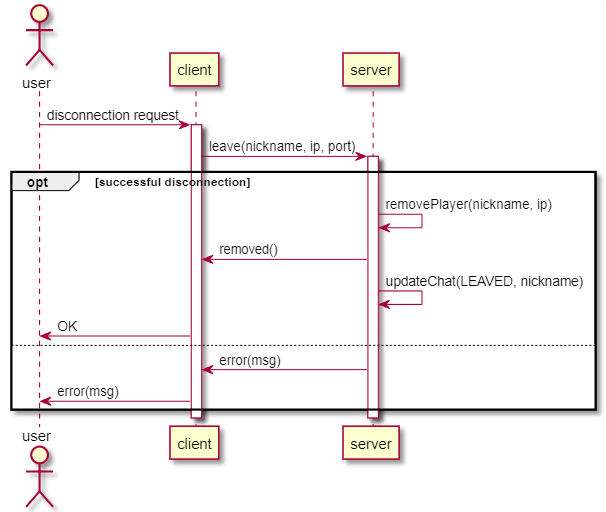
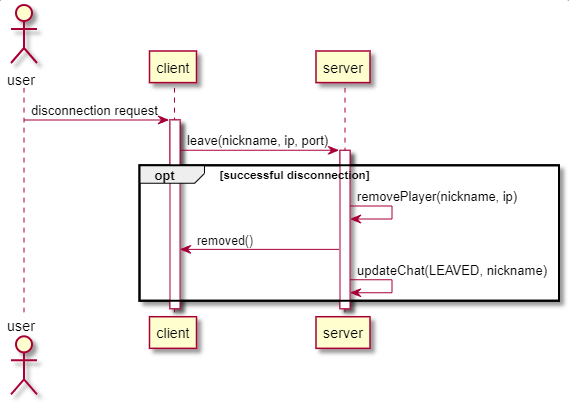
Correzione Scenario playerDisconnected

Changed region(s): [[0.0, 0.0, 1.0, 1.0]]

diff --git a/scenarios/playerDisconnected/playerDisconnectedDoc.md b/scenarios/playerDisconnected/playerDisconnectedDoc.md
@@ -1,24 +1,20 @@
 
 ### Mattia Ruberto e Gabriele Alessi 19.03.2019
 
-# Scenario 4
+# Scenario 4: Disconnessione utente
 
-## Nello scenario 4 il giocatore si disconnete da una partita in corso.
+### Nello scenario 4 il giocatore si disconnete da una partita in corso.
 
 ![gatto](playerDisconnected.png)
-
-### Se il giocatore è nella sessione sarà sempre disponibile un pulsante che permette di lasciare la partita mentre è in corso (disconnessione). 
+ 
 ## Procedura:  
-### L'utente preme il pulsante (disconnection request) e il client chiede al server di lasciare la partita (leave()). Quindi se va tutto bene il server rimuove il player (removePlayer()) dal sistema e invia un check al client (removed()). Infine il server aggiorna la chat mostrando che il player ha appunto lasciato la partita (updateChat()) e manda l'OK all'utente. Se invece ci sono problemi con la disconnessione verrà mandato un messaggio di errore al client e quindi all'utente (error()).
+ L'utente preme il pulsante (disconnection request) e il client chiede al server di lasciare la partita (leave()). Quindi se va tutto bene il server rimuove il player (removePlayer()) dal sistema e invia un check al client (removed()). Infine il server aggiorna la chat mostrando che il player ha appunto lasciato la partita (updateChat()) e manda l'OK all'utente. Se invece ci sono problemi con la disconnessione verrà mandato un messaggio di errore al client e quindi all'utente (error()).
 
-## Tabella dei protocolli di comunicazione
+### Tabella dei protocolli di comunicazione
 
 | Message                     | Direction     | Description                                                                            |   Reply                 |
 |:----------------------------|:--------------|:---------------------------------------------------------------------------------------|:------------------------|
-| leave(nickname, ip, port)   | c --> s       | Client fa una richiesta di disconessione al server.                                    | 1. Ok <br> 2. Error(msg)|     
-| removePlayer(nickname, ip)  | s --> s       | Il server rimuove il player dalla partita.                                             | -                       |     
-| updateChat(LEAVED, nickname)| s --> s       | Il server aggiorna la chat togliendo l'utente.                                         | -                       | 
+| leave(nickname, ip, port)   | c --> s       | Client fa una richiesta di disconessione al server.                                    | -                       |        
 | removed                     | s --> c       | Il server ritorna al client la conferma che è stato rimosso.                           | -                       | 
-| error(msg)                  | s --> c       | Errore ritornato dal server dopo aver ricevuto la richiesta di <br> disconnessione     | -                       |
 
 

diff --git a/README.md b/README.md
@@ -8,4 +8,4 @@ Analysis of the scenarios in the scribble game
     - [joinRoom](scenarios/joinRoom.puml)
     - [readyToPlay](scenarios/readyToPlay.puml)
     - [playerReady](scenarios/playerReady/playerReady.md)
-    - [playerDisconnected](scenarios/playerDisconnected/playerDisconnected.puml)
+    - [playerDisconnected](scenarios/playerDisconnected/playerDisconnectedDoc.md)

diff --git a/scenarios/README.md b/scenarios/README.md
@@ -1,11 +1,11 @@
 # scribble/scenarios
 
-Documentation of scribble's scenarios
+## Documentation of scribble's scenarios
 
-## joinRoom
+joinRoom
 
-## playerReady
+playerReady
 
-## readyToPlay
+readyToPlay
 
-## playerDisconnected
+playerDisconnected
